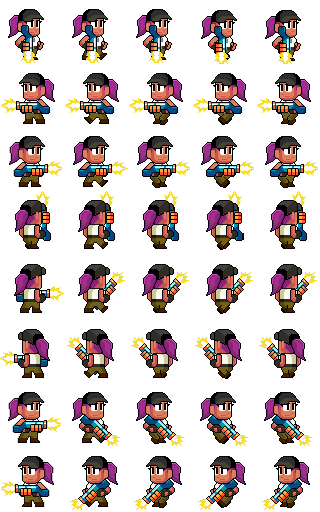
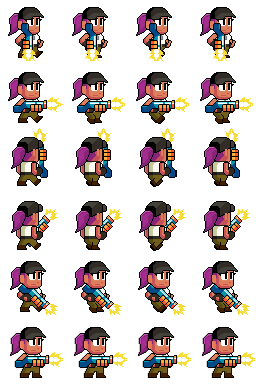
Fixing mikaela's sprite and adding Rider

diff --git a/server/public/dist/main.js b/server/public/dist/main.js
@@ -130,7 +130,7 @@ eval("__webpack_require__.r(__webpack_exports__);\n/* harmony export (binding) *
 /***/ (function(module, __webpack_exports__, __webpack_require__) {
 
 "use strict";
-eval("__webpack_require__.r(__webpack_exports__);\n/* harmony export (binding) */ __webpack_require__.d(__webpack_exports__, \"default\", function() { return Online; });\n/* harmony import */ var _Engine_js__WEBPACK_IMPORTED_MODULE_0__ = __webpack_require__(/*! ./Engine.js */ \"./server/client/js/classes/Engine.js\");\n/* harmony import */ var _OnlineChat_js__WEBPACK_IMPORTED_MODULE_1__ = __webpack_require__(/*! ./OnlineChat.js */ \"./server/client/js/classes/OnlineChat.js\");\nfunction _typeof(obj) { \"@babel/helpers - typeof\"; if (typeof Symbol === \"function\" && typeof Symbol.iterator === \"symbol\") { _typeof = function _typeof(obj) { return typeof obj; }; } else { _typeof = function _typeof(obj) { return obj && typeof Symbol === \"function\" && obj.constructor === Symbol && obj !== Symbol.prototype ? \"symbol\" : typeof obj; }; } return _typeof(obj); }\n\nfunction _classCallCheck(instance, Constructor) { if (!(instance instanceof Constructor)) { throw new TypeError(\"Cannot call a class as a function\"); } }\n\nfunction _defineProperties(target, props) { for (var i = 0; i < props.length; i++) { var descriptor = props[i]; descriptor.enumerable = descriptor.enumerable || false; descriptor.configurable = true; if (\"value\" in descriptor) descriptor.writable = true; Object.defineProperty(target, descriptor.key, descriptor); } }\n\nfunction _createClass(Constructor, protoProps, staticProps) { if (protoProps) _defineProperties(Constructor.prototype, protoProps); if (staticProps) _defineProperties(Constructor, staticProps); return Constructor; }\n\nfunction _inherits(subClass, superClass) { if (typeof superClass !== \"function\" && superClass !== null) { throw new TypeError(\"Super expression must either be null or a function\"); } subClass.prototype = Object.create(superClass && superClass.prototype, { constructor: { value: subClass, writable: true, configurable: true } }); if (superClass) _setPrototypeOf(subClass, superClass); }\n\nfunction _setPrototypeOf(o, p) { _setPrototypeOf = Object.setPrototypeOf || function _setPrototypeOf(o, p) { o.__proto__ = p; return o; }; return _setPrototypeOf(o, p); }\n\nfunction _createSuper(Derived) { return function () { var Super = _getPrototypeOf(Derived), result; if (_isNativeReflectConstruct()) { var NewTarget = _getPrototypeOf(this).constructor; result = Reflect.construct(Super, arguments, NewTarget); } else { result = Super.apply(this, arguments); } return _possibleConstructorReturn(this, result); }; }\n\nfunction _possibleConstructorReturn(self, call) { if (call && (_typeof(call) === \"object\" || typeof call === \"function\")) { return call; } return _assertThisInitialized(self); }\n\nfunction _assertThisInitialized(self) { if (self === void 0) { throw new ReferenceError(\"this hasn't been initialised - super() hasn't been called\"); } return self; }\n\nfunction _isNativeReflectConstruct() { if (typeof Reflect === \"undefined\" || !Reflect.construct) return false; if (Reflect.construct.sham) return false; if (typeof Proxy === \"function\") return true; try { Date.prototype.toString.call(Reflect.construct(Date, [], function () {})); return true; } catch (e) { return false; } }\n\nfunction _getPrototypeOf(o) { _getPrototypeOf = Object.setPrototypeOf ? Object.getPrototypeOf : function _getPrototypeOf(o) { return o.__proto__ || Object.getPrototypeOf(o); }; return _getPrototypeOf(o); }\n\n\n\n/**\r\n * ================================\r\n *      ONLINE GAME ENGINE\r\n * ================================\r\n */\n\nvar Online = /*#__PURE__*/function (_Engine) {\n  _inherits(Online, _Engine);\n\n  var _super = _createSuper(Online);\n\n  function Online(map, colissionMatrix, tileSet, canvas, socket, playerID, server, skin, name) {\n    var _this;\n\n    _classCallCheck(this, Online);\n\n    _this = _super.call(this, map, colissionMatrix, tileSet, canvas, skin);\n\n    _this.render = function (timeSinceLastFrame) {\n      _this.context.clearRect(0, 0, _this.canvas.width, _this.canvas.height);\n\n      if (_this.playerStats) _this.calculateLocalMap();\n\n      _this.animateCharacter();\n\n      _this.calculateOffset();\n\n      _this.drawMap();\n\n      _this.drawObjects();\n\n      _this.drawOtherPlayers();\n\n      _this.context.font = '16px cursive';\n      _this.context.fillStyle = 'black';\n\n      _this.drawBullets(); //this.drawCharacter()\n\n\n      _this.context.fillStyle = \"black\";\n\n      _this.context.fillText(\"FPS: \".concat(_this.FPS), _this.screenTiles.x * _this.tile.height - 100, 50);\n\n      _this.context.fillText(\"Net: \".concat(_this.latency, \"ms\"), _this.screenTiles.x * _this.tile.height - 100, 70);\n\n      if (_this.reloading || _this.currentAmmo === 0) {\n        _this.context.textAlign = 'center';\n\n        _this.context.fillText('Reloading...', _this.screenTiles.x * _this.tile.width / 2, _this.canvas.height - 10);\n      }\n\n      requestAnimationFrame(function () {\n        /* FPS Counter */\n        var now = new Date();\n        timeSinceLastFrame = _this.lastFrameTime ? now - _this.lastFrameTime : 0;\n\n        _this.render(timeSinceLastFrame);\n\n        _this.lastFrameTime = now;\n        _this.FPS = Math.floor(1 / (timeSinceLastFrame / 1000));\n      });\n    };\n\n    _this.emitPlayerPosition = function () {\n      _this.socketIO.emit('movement', {\n        id: _this.playerID,\n        controls: _this.controls,\n        cartisianMovement: _this.cartesianValueOfMovement,\n        character: {\n          currentSprite: _this.character.currentSprite\n        }\n      });\n    };\n\n    _this.name = name;\n    _this.serverDelay = null;\n    /* Online attributes recevied from the sever */\n\n    _this.playerID = playerID;\n    _this.socketIO = socket;\n    /* Create a chat room */\n\n    _this.chat = new _OnlineChat_js__WEBPACK_IMPORTED_MODULE_1__[\"default\"](_this.socketIO);\n    /* Add to emit => the skin */\n\n    _this.socketIO.emit('New Player', {\n      name: _this.name,\n      skin: _this.skin,\n      character: _this.character.currentSprite\n    });\n\n    _this.state = null;\n    _this.server = server;\n    /* CALCULATE network speed */\n\n    _this.latency = 0;\n    /* Skins array of images */\n\n    _this.onlineSkins = {};\n    /* SOCKET LISTENERS */\n\n    _this.socketIO.on('state', function (data) {\n      _this.state = data;\n      var currentPlayerPos = _this.state.players[_this.playerID];\n      _this.playerStats = currentPlayerPos;\n\n      if (_this.currentAmmo !== _this.playerStats.bulletsCharger) {\n        _this.currentAmmo = _this.playerStats.currentAmmo;\n        _this.bulletsHTMLElement.innerText = \"\".concat(_this.currentAmmo, \"/\").concat(_this.playerAmmunition);\n      }\n\n      _this.serverDelay = Date.now() - data.serverTime;\n    });\n    /* When new players enter the lobby, they must load other users skins and default info about the skin selected */\n\n\n    _this.socketIO.on('Load Skins and ammunition', function (data) {\n      data.srcArray.forEach(function (value) {\n        if (value != _this.skin) {\n          _this.loadServerSkin(value);\n        }\n      });\n      _this.playerAmmunition = data.characterInfo.bullets;\n      _this.currentAmmo = _this.playerAmmunition;\n      _this.shootingDelay = data.characterInfo.shootingDelay;\n      _this.bulletsHTMLElement.innerText = \"\".concat(_this.currentAmmo, \"/\").concat(_this.playerAmmunition);\n    });\n    /* when a new player enters, other people must load his skin */\n\n\n    _this.socketIO.on('Load New Skin', function (data) {\n      var element = _this.onlineSkins[data.src];\n      if (!element && data.src != _this.skin) _this.loadServerSkin(data.src);\n    });\n\n    _this.socketIO.on('Reload Weapon', function (data) {\n      _this.reloading = false;\n    });\n    /* When the score changes */\n\n\n    _this.socketIO.on('New leaderboard', function (data) {\n      var positions = ['trophy', 'medal', 'award'];\n      var score = document.getElementById('scores');\n      score.innerHTML = '';\n      data.map(function (elem, index) {\n        var text = document.createElement('p');\n        if (elem.id === _this.playerID) text.style.color = '#f0565e';\n        var scoreText = \"<i class=\\\"fas fa-\".concat(positions[index], \"\\\"></i>.\").concat(elem.name, \": \").concat(elem.score);\n        text.innerHTML = scoreText;\n        score.appendChild(text);\n      });\n    });\n\n    _this.socketIO.on('pong', function (ms) {\n      _this.latency = ms;\n    });\n\n    return _this;\n  }\n  /**\r\n   * ==========================\r\n   *      RENDER FUNCTION\r\n   * ==========================\r\n   * \r\n   * Called when the sprites are loaded by the engine\r\n   */\n\n\n  _createClass(Online, [{\n    key: \"animateCharacter\",\n\n    /* Animating the local character with the info from the server */\n    value: function animateCharacter() {\n      var emitPos = false;\n\n      if (this.controls.goUp && this.controls.goLeft) {\n        if (this.character.currentSprite.y != 3) {\n          this.character.onMovingStop();\n          this.character.onMovingForwardLeft();\n        }\n      }\n\n      if (this.controls.goUp && this.controls.goRight) {\n        if (this.character.currentSprite.y != 3) {\n          this.character.onMovingStop();\n          this.character.onMovingForwardRight();\n        }\n      }\n\n      if (this.controls.goDown && this.controls.goRight) {\n        if (this.character.currentSprite.y != 4) {\n          this.character.onMovingStop();\n          this.character.onMovingBackwardsRight();\n        }\n      }\n\n      if (this.controls.goDown && this.controls.goLeft) {\n        if (this.character.currentSprite.y != 4) {\n          this.character.onMovingStop();\n          this.character.onMovingBackwardsLeft();\n        }\n      }\n\n      if (this.controls.goUp) {\n        emitPos = true;\n        if (!this.character.moveInterval) this.character.onMovingForward();\n      }\n\n      if (this.controls.goDown) {\n        emitPos = true;\n        if (!this.character.moveInterval) this.character.onMovingBackwards();\n      }\n\n      if (this.controls.goRight) {\n        emitPos = true;\n        if (!this.character.moveInterval) this.character.onMovingRight();\n      }\n\n      if (this.controls.goLeft) {\n        emitPos = true;\n        if (!this.character.moveInterval) this.character.onMovingLeft();\n      }\n\n      if (this.ableToShoot && this.controls.shoot && !this.chat.active && this.currentAmmo && !this.reloading) this.triggerShooting();\n      if (emitPos) this.emitPlayerPosition();\n    }\n    /* Send the info back to the server */\n\n  }, {\n    key: \"calculateLocalMap\",\n\n    /* Calculates the position of the map in the browser => startX and startY */\n    value: function calculateLocalMap() {\n      var serverWidth = this.transformServerMagnitudesX(this.playerStats.posX);\n      var serverHeight = this.transformServerMagnitudesY(this.playerStats.posY);\n      /* X axis smoothness */\n\n      if (this.cameraSmoothness.offsetX < this.cameraSmoothness.limitX && this.cameraSmoothness.offsetX > -this.cameraSmoothness.limitX && this.playerStats.cartesianValueOfMovement.x) {\n        this.cameraSmoothness.velX = this.cameraSmoothness.velX > 1.8 ? 2 : this.cameraSmoothness.velX / this.cameraSmoothness.friction;\n        this.cameraSmoothness.offsetX += this.cameraSmoothness.velX * this.playerStats.cartesianValueOfMovement.x;\n      } else if (this.playerStats.cartesianValueOfMovement.x === 0 && this.cameraSmoothness.offsetX !== 0) {\n        this.cameraSmoothness.velX = this.cameraSmoothness.velX <= .4 ? .4 : this.cameraSmoothness.velX * this.cameraSmoothness.friction;\n        if (this.cameraSmoothness.offsetX < 0) this.cameraSmoothness.offsetX += this.cameraSmoothness.velX;else this.cameraSmoothness.offsetX -= this.cameraSmoothness.velX;\n      }\n      /* Y axis smootheness */\n\n\n      if (this.cameraSmoothness.offsetY < this.cameraSmoothness.limitX && this.cameraSmoothness.offsetY > -this.cameraSmoothness.limitX && this.playerStats.cartesianValueOfMovement.y) {\n        this.cameraSmoothness.velY = this.cameraSmoothness.velY > 1.7 ? 2 : this.cameraSmoothness.velY / this.cameraSmoothness.friction;\n        this.cameraSmoothness.offsetY += this.cameraSmoothness.velY * (this.playerStats.cartesianValueOfMovement.y * -1);\n      } else if (this.playerStats.cartesianValueOfMovement.y === 0 && this.cameraSmoothness.offsetY !== 0) {\n        this.cameraSmoothness.velY = this.cameraSmoothness.velY <= .4 ? .4 : this.cameraSmoothness.velY * this.cameraSmoothness.friction;\n        if (this.cameraSmoothness.offsetY < 0) this.cameraSmoothness.offsetY += this.cameraSmoothness.velY;else this.cameraSmoothness.offsetY -= this.cameraSmoothness.velY;\n      }\n      /* Offset smooth camera */\n\n\n      this.tileMap.startX = this.screenTiles.x * this.tile.width / 2 - this.tile.width / 2 - serverWidth + this.cameraSmoothness.offsetX;\n      this.tileMap.startY = this.screenTiles.y * this.tile.height / 2 - this.tile.height / 2 - serverHeight + this.cameraSmoothness.offsetY;\n    }\n    /* Loops the other players and calls the drawOnlineCharacter to draw each player with the info from the socket */\n\n  }, {\n    key: \"drawOtherPlayers\",\n    value: function drawOtherPlayers() {\n      if (this.state.players) {\n        var quitePlayers = false;\n\n        for (var playerID in this.state.players) {\n          var characterX = this.transformServerMagnitudesX(this.state.players[playerID].posX) + this.tileMap.startX;\n          var characterY = this.transformServerMagnitudesX(this.state.players[playerID].posY) + this.tileMap.startY;\n          /* If the character is outside the screen don't draw it */\n\n          if (characterX + this.tile.width >= 0 && characterX < this.screenTiles.x * this.tile.width && characterY + this.tile.height >= 0 && characterY < this.screenTiles.y * this.tile.height && this.state.players[playerID].character) {\n            var skin = void 0;\n\n            if (this.state.players[playerID].skin == this.skin) {\n              if (this.state.players[playerID].shooting && this.state.players[playerID].life > 0) skin = this.character.spriteImages.shooting;else skin = this.character.spriteImages.normal;\n            } else {\n              if (this.state.players[playerID].shooting && this.state.players[playerID].life > 0) skin = this.onlineSkins[this.state.players[playerID].skin].shooting;else skin = this.onlineSkins[this.state.players[playerID].skin].normal;\n            }\n\n            if (this.state.players[playerID].life === 0) {\n              var tempFlip = this.state.players[playerID].character.currentSprite.flip;\n              this.state.players[playerID].character.currentSprite = {\n                x: 0,\n                y: 6,\n                flip: tempFlip\n              };\n            }\n            /* Check if any player is still */\n\n\n            if (this.state.players[playerID].still) quitePlayers = true;\n\n            if (skin) {\n              this.drawLife(characterX, characterY - 6, this.state.players[playerID].life);\n              var character = {\n                y: this.state.players[playerID].character.currentSprite.y,\n                x: this.state.players[playerID].still && this.state.players[playerID].life > 0 ? this.staticAnimation.x : this.state.players[playerID].character.currentSprite.x,\n                flip: this.state.players[playerID].character.currentSprite.flip\n              };\n              this.drawOnlineCharacter({\n                posX: characterX,\n                posY: characterY\n              }, character, skin, this.state.players[playerID].playerName);\n            }\n          }\n        }\n\n        if (quitePlayers && !this.staticAnimation.interval) this.setAnimationWhenStatic();else if (!quitePlayers) this.endAnimationWhenStatic();\n      }\n    }\n    /* Draws the online players with the info from the server */\n\n  }, {\n    key: \"drawOnlineCharacter\",\n    value: function drawOnlineCharacter(player, onlineCharacter, skin, name) {\n      console.log(onlineCharacter);\n      this.context.textAlign = 'center';\n      this.context.fillStyle = 'black';\n      this.context.fillText(name, player.posX + this.tile.width / 2, player.posY - 10);\n      this.context.save();\n      this.context.scale(onlineCharacter.flip, 1);\n      var posX = onlineCharacter.flip === 1 ? player.posX : player.posX * onlineCharacter.flip - this.tile.width;\n      this.context.drawImage(skin, onlineCharacter.x * this.character.spriteSheet.width, onlineCharacter.y * this.character.spriteSheet.height, this.character.spriteSheet.width, this.character.spriteSheet.height, posX, player.posY, this.tile.width, this.tile.height);\n      this.context.restore();\n    }\n    /* Uses the rule of three mathematic formula to transform values from the server */\n\n  }, {\n    key: \"transformServerMagnitudesX\",\n    value: function transformServerMagnitudesX(serverValue) {\n      return this.tileMap.width * serverValue / this.server.width;\n    }\n  }, {\n    key: \"transformServerMagnitudesY\",\n    value: function transformServerMagnitudesY(serverValue) {\n      return this.tileMap.height * serverValue / this.server.height;\n    }\n    /* Load new skin from the server */\n\n  }, {\n    key: \"loadServerSkin\",\n    value: function loadServerSkin(src) {\n      var characterSkin = new Image();\n      characterSkin.src = \"../assets/characters/\".concat(src, \".png\");\n      var shootingSkin = new Image();\n      shootingSkin.src = \"../assets/characters/shooting/\".concat(src, \".png\");\n      this.onlineSkins[src] = {\n        normal: characterSkin,\n        shooting: shootingSkin\n      };\n    }\n    /** \r\n     * =========================\r\n     *      Bullet Mechanics\r\n     * =========================\r\n    */\n\n    /* Draw bullets contain on the server */\n\n  }, {\n    key: \"drawBullets\",\n    value: function drawBullets() {\n      var _this2 = this;\n\n      if (this.state.bullets.length > 0) {\n        this.state.bullets.map(function (element) {\n          _this2.context.beginPath();\n\n          _this2.context.arc(_this2.transformServerMagnitudesX(element.posX) + _this2.tileMap.startX, _this2.transformServerMagnitudesY(element.posY) + _this2.tileMap.startY, 5, 0, 2 * Math.PI);\n\n          _this2.context.fill();\n        });\n      }\n    }\n    /* Emit bullet to the server */\n\n  }, {\n    key: \"emitBullet\",\n    value: function emitBullet() {\n      this.socketIO.emit('shoot', {\n        shootTime: Date.now() - this.serverDelay\n      });\n    }\n  }, {\n    key: \"emitReload\",\n    value: function emitReload() {\n      this.socketIO.emit('reload weapon');\n    }\n  }]);\n\n  return Online;\n}(_Engine_js__WEBPACK_IMPORTED_MODULE_0__[\"default\"]);\n\n\n\n//# sourceURL=webpack:///./server/client/js/classes/Online.js?");
+eval("__webpack_require__.r(__webpack_exports__);\n/* harmony export (binding) */ __webpack_require__.d(__webpack_exports__, \"default\", function() { return Online; });\n/* harmony import */ var _Engine_js__WEBPACK_IMPORTED_MODULE_0__ = __webpack_require__(/*! ./Engine.js */ \"./server/client/js/classes/Engine.js\");\n/* harmony import */ var _OnlineChat_js__WEBPACK_IMPORTED_MODULE_1__ = __webpack_require__(/*! ./OnlineChat.js */ \"./server/client/js/classes/OnlineChat.js\");\nfunction _typeof(obj) { \"@babel/helpers - typeof\"; if (typeof Symbol === \"function\" && typeof Symbol.iterator === \"symbol\") { _typeof = function _typeof(obj) { return typeof obj; }; } else { _typeof = function _typeof(obj) { return obj && typeof Symbol === \"function\" && obj.constructor === Symbol && obj !== Symbol.prototype ? \"symbol\" : typeof obj; }; } return _typeof(obj); }\n\nfunction _classCallCheck(instance, Constructor) { if (!(instance instanceof Constructor)) { throw new TypeError(\"Cannot call a class as a function\"); } }\n\nfunction _defineProperties(target, props) { for (var i = 0; i < props.length; i++) { var descriptor = props[i]; descriptor.enumerable = descriptor.enumerable || false; descriptor.configurable = true; if (\"value\" in descriptor) descriptor.writable = true; Object.defineProperty(target, descriptor.key, descriptor); } }\n\nfunction _createClass(Constructor, protoProps, staticProps) { if (protoProps) _defineProperties(Constructor.prototype, protoProps); if (staticProps) _defineProperties(Constructor, staticProps); return Constructor; }\n\nfunction _inherits(subClass, superClass) { if (typeof superClass !== \"function\" && superClass !== null) { throw new TypeError(\"Super expression must either be null or a function\"); } subClass.prototype = Object.create(superClass && superClass.prototype, { constructor: { value: subClass, writable: true, configurable: true } }); if (superClass) _setPrototypeOf(subClass, superClass); }\n\nfunction _setPrototypeOf(o, p) { _setPrototypeOf = Object.setPrototypeOf || function _setPrototypeOf(o, p) { o.__proto__ = p; return o; }; return _setPrototypeOf(o, p); }\n\nfunction _createSuper(Derived) { return function () { var Super = _getPrototypeOf(Derived), result; if (_isNativeReflectConstruct()) { var NewTarget = _getPrototypeOf(this).constructor; result = Reflect.construct(Super, arguments, NewTarget); } else { result = Super.apply(this, arguments); } return _possibleConstructorReturn(this, result); }; }\n\nfunction _possibleConstructorReturn(self, call) { if (call && (_typeof(call) === \"object\" || typeof call === \"function\")) { return call; } return _assertThisInitialized(self); }\n\nfunction _assertThisInitialized(self) { if (self === void 0) { throw new ReferenceError(\"this hasn't been initialised - super() hasn't been called\"); } return self; }\n\nfunction _isNativeReflectConstruct() { if (typeof Reflect === \"undefined\" || !Reflect.construct) return false; if (Reflect.construct.sham) return false; if (typeof Proxy === \"function\") return true; try { Date.prototype.toString.call(Reflect.construct(Date, [], function () {})); return true; } catch (e) { return false; } }\n\nfunction _getPrototypeOf(o) { _getPrototypeOf = Object.setPrototypeOf ? Object.getPrototypeOf : function _getPrototypeOf(o) { return o.__proto__ || Object.getPrototypeOf(o); }; return _getPrototypeOf(o); }\n\n\n\n/**\r\n * ================================\r\n *      ONLINE GAME ENGINE\r\n * ================================\r\n */\n\nvar Online = /*#__PURE__*/function (_Engine) {\n  _inherits(Online, _Engine);\n\n  var _super = _createSuper(Online);\n\n  function Online(map, colissionMatrix, tileSet, canvas, socket, playerID, server, skin, name) {\n    var _this;\n\n    _classCallCheck(this, Online);\n\n    _this = _super.call(this, map, colissionMatrix, tileSet, canvas, skin);\n\n    _this.render = function (timeSinceLastFrame) {\n      _this.context.clearRect(0, 0, _this.canvas.width, _this.canvas.height);\n\n      if (_this.playerStats) _this.calculateLocalMap();\n\n      _this.animateCharacter();\n\n      _this.calculateOffset();\n\n      _this.drawMap();\n\n      _this.drawObjects();\n\n      _this.drawBullets();\n\n      _this.drawOtherPlayers();\n\n      _this.context.font = '16px cursive';\n      _this.context.fillStyle = 'black'; //this.drawCharacter()\n\n      _this.context.fillStyle = \"black\";\n\n      _this.context.fillText(\"FPS: \".concat(_this.FPS), _this.screenTiles.x * _this.tile.height - 100, 50);\n\n      _this.context.fillText(\"Net: \".concat(_this.latency, \"ms\"), _this.screenTiles.x * _this.tile.height - 100, 70);\n\n      if (_this.reloading || _this.currentAmmo === 0) {\n        _this.context.textAlign = 'center';\n\n        _this.context.fillText('Reloading...', _this.screenTiles.x * _this.tile.width / 2, _this.canvas.height - 10);\n      }\n\n      requestAnimationFrame(function () {\n        /* FPS Counter */\n        var now = new Date();\n        timeSinceLastFrame = _this.lastFrameTime ? now - _this.lastFrameTime : 0;\n\n        _this.render(timeSinceLastFrame);\n\n        _this.lastFrameTime = now;\n        _this.FPS = Math.floor(1 / (timeSinceLastFrame / 1000));\n      });\n    };\n\n    _this.emitPlayerPosition = function () {\n      _this.socketIO.emit('movement', {\n        id: _this.playerID,\n        controls: _this.controls,\n        cartisianMovement: _this.cartesianValueOfMovement,\n        character: {\n          currentSprite: _this.character.currentSprite\n        }\n      });\n    };\n\n    _this.name = name;\n    _this.serverDelay = null;\n    /* Online attributes recevied from the sever */\n\n    _this.playerID = playerID;\n    _this.socketIO = socket;\n    /* Create a chat room */\n\n    _this.chat = new _OnlineChat_js__WEBPACK_IMPORTED_MODULE_1__[\"default\"](_this.socketIO);\n    /* Add to emit => the skin */\n\n    _this.socketIO.emit('New Player', {\n      name: _this.name,\n      skin: _this.skin,\n      character: _this.character.currentSprite\n    });\n\n    _this.state = null;\n    _this.server = server;\n    /* CALCULATE network speed */\n\n    _this.latency = 0;\n    /* Skins array of images */\n\n    _this.onlineSkins = {};\n    /* SOCKET LISTENERS */\n\n    _this.socketIO.on('state', function (data) {\n      _this.state = data;\n      var currentPlayerPos = _this.state.players[_this.playerID];\n      _this.playerStats = currentPlayerPos;\n\n      if (_this.currentAmmo !== _this.playerStats.bulletsCharger) {\n        _this.currentAmmo = _this.playerStats.currentAmmo;\n        _this.bulletsHTMLElement.innerText = \"\".concat(_this.currentAmmo, \"/\").concat(_this.playerAmmunition);\n      }\n\n      _this.serverDelay = Date.now() - data.serverTime;\n    });\n    /* When new players enter the lobby, they must load other users skins and default info about the skin selected */\n\n\n    _this.socketIO.on('Load Skins and ammunition', function (data) {\n      data.srcArray.forEach(function (value) {\n        if (value != _this.skin) {\n          _this.loadServerSkin(value);\n        }\n      });\n      _this.playerAmmunition = data.characterInfo.bullets;\n      _this.currentAmmo = _this.playerAmmunition;\n      _this.shootingDelay = data.characterInfo.shootingDelay;\n      _this.bulletsHTMLElement.innerText = \"\".concat(_this.currentAmmo, \"/\").concat(_this.playerAmmunition);\n    });\n    /* when a new player enters, other people must load his skin */\n\n\n    _this.socketIO.on('Load New Skin', function (data) {\n      var element = _this.onlineSkins[data.src];\n      if (!element && data.src != _this.skin) _this.loadServerSkin(data.src);\n    });\n\n    _this.socketIO.on('Reload Weapon', function (data) {\n      _this.reloading = false;\n    });\n    /* When the score changes */\n\n\n    _this.socketIO.on('New leaderboard', function (data) {\n      var positions = ['trophy', 'medal', 'award'];\n      var score = document.getElementById('scores');\n      score.innerHTML = '';\n      data.map(function (elem, index) {\n        var text = document.createElement('p');\n        if (elem.id === _this.playerID) text.style.color = '#f0565e';\n        var scoreText = \"<i class=\\\"fas fa-\".concat(positions[index], \"\\\"></i>.\").concat(elem.name, \": \").concat(elem.score);\n        text.innerHTML = scoreText;\n        score.appendChild(text);\n      });\n    });\n\n    _this.socketIO.on('pong', function (ms) {\n      _this.latency = ms;\n    });\n\n    return _this;\n  }\n  /**\r\n   * ==========================\r\n   *      RENDER FUNCTION\r\n   * ==========================\r\n   * \r\n   * Called when the sprites are loaded by the engine\r\n   */\n\n\n  _createClass(Online, [{\n    key: \"animateCharacter\",\n\n    /* Animating the local character with the info from the server */\n    value: function animateCharacter() {\n      var emitPos = false;\n\n      if (this.controls.goUp && this.controls.goLeft) {\n        if (this.character.currentSprite.y != 3) {\n          this.character.onMovingStop();\n          this.character.onMovingForwardLeft();\n        }\n      }\n\n      if (this.controls.goUp && this.controls.goRight) {\n        if (this.character.currentSprite.y != 3) {\n          this.character.onMovingStop();\n          this.character.onMovingForwardRight();\n        }\n      }\n\n      if (this.controls.goDown && this.controls.goRight) {\n        if (this.character.currentSprite.y != 4) {\n          this.character.onMovingStop();\n          this.character.onMovingBackwardsRight();\n        }\n      }\n\n      if (this.controls.goDown && this.controls.goLeft) {\n        if (this.character.currentSprite.y != 4) {\n          this.character.onMovingStop();\n          this.character.onMovingBackwardsLeft();\n        }\n      }\n\n      if (this.controls.goUp) {\n        emitPos = true;\n        if (!this.character.moveInterval) this.character.onMovingForward();\n      }\n\n      if (this.controls.goDown) {\n        emitPos = true;\n        if (!this.character.moveInterval) this.character.onMovingBackwards();\n      }\n\n      if (this.controls.goRight) {\n        emitPos = true;\n        if (!this.character.moveInterval) this.character.onMovingRight();\n      }\n\n      if (this.controls.goLeft) {\n        emitPos = true;\n        if (!this.character.moveInterval) this.character.onMovingLeft();\n      }\n\n      if (this.ableToShoot && this.controls.shoot && !this.chat.active && this.currentAmmo && !this.reloading) this.triggerShooting();\n      if (emitPos) this.emitPlayerPosition();\n    }\n    /* Send the info back to the server */\n\n  }, {\n    key: \"calculateLocalMap\",\n\n    /* Calculates the position of the map in the browser => startX and startY */\n    value: function calculateLocalMap() {\n      var serverWidth = this.transformServerMagnitudesX(this.playerStats.posX);\n      var serverHeight = this.transformServerMagnitudesY(this.playerStats.posY);\n      /* X axis smoothness */\n\n      if (this.cameraSmoothness.offsetX < this.cameraSmoothness.limitX && this.cameraSmoothness.offsetX > -this.cameraSmoothness.limitX && this.playerStats.cartesianValueOfMovement.x) {\n        this.cameraSmoothness.velX = this.cameraSmoothness.velX > 1.8 ? 2 : this.cameraSmoothness.velX / this.cameraSmoothness.friction;\n        this.cameraSmoothness.offsetX += this.cameraSmoothness.velX * this.playerStats.cartesianValueOfMovement.x;\n      } else if (this.playerStats.cartesianValueOfMovement.x === 0 && this.cameraSmoothness.offsetX !== 0) {\n        this.cameraSmoothness.velX = this.cameraSmoothness.velX <= .4 ? .4 : this.cameraSmoothness.velX * this.cameraSmoothness.friction;\n        if (this.cameraSmoothness.offsetX < 0) this.cameraSmoothness.offsetX += this.cameraSmoothness.velX;else this.cameraSmoothness.offsetX -= this.cameraSmoothness.velX;\n      }\n      /* Y axis smootheness */\n\n\n      if (this.cameraSmoothness.offsetY < this.cameraSmoothness.limitX && this.cameraSmoothness.offsetY > -this.cameraSmoothness.limitX && this.playerStats.cartesianValueOfMovement.y) {\n        this.cameraSmoothness.velY = this.cameraSmoothness.velY > 1.7 ? 2 : this.cameraSmoothness.velY / this.cameraSmoothness.friction;\n        this.cameraSmoothness.offsetY += this.cameraSmoothness.velY * (this.playerStats.cartesianValueOfMovement.y * -1);\n      } else if (this.playerStats.cartesianValueOfMovement.y === 0 && this.cameraSmoothness.offsetY !== 0) {\n        this.cameraSmoothness.velY = this.cameraSmoothness.velY <= .4 ? .4 : this.cameraSmoothness.velY * this.cameraSmoothness.friction;\n        if (this.cameraSmoothness.offsetY < 0) this.cameraSmoothness.offsetY += this.cameraSmoothness.velY;else this.cameraSmoothness.offsetY -= this.cameraSmoothness.velY;\n      }\n      /* Offset smooth camera */\n\n\n      this.tileMap.startX = this.screenTiles.x * this.tile.width / 2 - this.tile.width / 2 - serverWidth + this.cameraSmoothness.offsetX;\n      this.tileMap.startY = this.screenTiles.y * this.tile.height / 2 - this.tile.height / 2 - serverHeight + this.cameraSmoothness.offsetY;\n    }\n    /* Loops the other players and calls the drawOnlineCharacter to draw each player with the info from the socket */\n\n  }, {\n    key: \"drawOtherPlayers\",\n    value: function drawOtherPlayers() {\n      if (this.state.players) {\n        var quitePlayers = false;\n\n        for (var playerID in this.state.players) {\n          var characterX = this.transformServerMagnitudesX(this.state.players[playerID].posX) + this.tileMap.startX;\n          var characterY = this.transformServerMagnitudesX(this.state.players[playerID].posY) + this.tileMap.startY;\n          /* If the character is outside the screen don't draw it */\n\n          if (characterX + this.tile.width >= 0 && characterX < this.screenTiles.x * this.tile.width && characterY + this.tile.height >= 0 && characterY < this.screenTiles.y * this.tile.height && this.state.players[playerID].character) {\n            var skin = void 0;\n\n            if (this.state.players[playerID].skin == this.skin) {\n              if (this.state.players[playerID].shooting && this.state.players[playerID].life > 0) skin = this.character.spriteImages.shooting;else skin = this.character.spriteImages.normal;\n            } else {\n              if (this.state.players[playerID].shooting && this.state.players[playerID].life > 0) skin = this.onlineSkins[this.state.players[playerID].skin].shooting;else skin = this.onlineSkins[this.state.players[playerID].skin].normal;\n            }\n\n            if (this.state.players[playerID].life === 0) {\n              var tempFlip = this.state.players[playerID].character.currentSprite.flip;\n              this.state.players[playerID].character.currentSprite = {\n                x: 0,\n                y: 6,\n                flip: tempFlip\n              };\n            }\n            /* Check if any player is still */\n\n\n            if (this.state.players[playerID].still) quitePlayers = true;\n\n            if (skin) {\n              this.drawLife(characterX, characterY - 6, this.state.players[playerID].life);\n              var character = {\n                y: this.state.players[playerID].character.currentSprite.y,\n                x: this.state.players[playerID].still && this.state.players[playerID].life > 0 ? this.staticAnimation.x : this.state.players[playerID].character.currentSprite.x,\n                flip: this.state.players[playerID].character.currentSprite.flip\n              };\n              this.drawOnlineCharacter({\n                posX: characterX,\n                posY: characterY\n              }, character, skin, this.state.players[playerID].playerName);\n            }\n          }\n        }\n\n        if (quitePlayers && !this.staticAnimation.interval) this.setAnimationWhenStatic();else if (!quitePlayers) this.endAnimationWhenStatic();\n      }\n    }\n    /* Draws the online players with the info from the server */\n\n  }, {\n    key: \"drawOnlineCharacter\",\n    value: function drawOnlineCharacter(player, onlineCharacter, skin, name) {\n      console.log(onlineCharacter);\n      this.context.textAlign = 'center';\n      this.context.fillStyle = 'black';\n      this.context.fillText(name, player.posX + this.tile.width / 2, player.posY - 10);\n      this.context.save();\n      this.context.scale(onlineCharacter.flip, 1);\n      var posX = onlineCharacter.flip === 1 ? player.posX : player.posX * onlineCharacter.flip - this.tile.width;\n      this.context.drawImage(skin, onlineCharacter.x * this.character.spriteSheet.width, onlineCharacter.y * this.character.spriteSheet.height, this.character.spriteSheet.width, this.character.spriteSheet.height, posX, player.posY, this.tile.width, this.tile.height);\n      this.context.restore();\n    }\n    /* Uses the rule of three mathematic formula to transform values from the server */\n\n  }, {\n    key: \"transformServerMagnitudesX\",\n    value: function transformServerMagnitudesX(serverValue) {\n      return this.tileMap.width * serverValue / this.server.width;\n    }\n  }, {\n    key: \"transformServerMagnitudesY\",\n    value: function transformServerMagnitudesY(serverValue) {\n      return this.tileMap.height * serverValue / this.server.height;\n    }\n    /* Load new skin from the server */\n\n  }, {\n    key: \"loadServerSkin\",\n    value: function loadServerSkin(src) {\n      var characterSkin = new Image();\n      characterSkin.src = \"../assets/characters/\".concat(src, \".png\");\n      var shootingSkin = new Image();\n      shootingSkin.src = \"../assets/characters/shooting/\".concat(src, \".png\");\n      this.onlineSkins[src] = {\n        normal: characterSkin,\n        shooting: shootingSkin\n      };\n    }\n    /** \r\n     * =========================\r\n     *      Bullet Mechanics\r\n     * =========================\r\n    */\n\n    /* Draw bullets contain on the server */\n\n  }, {\n    key: \"drawBullets\",\n    value: function drawBullets() {\n      var _this2 = this;\n\n      if (this.state.bullets.length > 0) {\n        this.state.bullets.map(function (element) {\n          _this2.context.beginPath();\n\n          _this2.context.arc(_this2.transformServerMagnitudesX(element.posX) + _this2.tileMap.startX, _this2.transformServerMagnitudesY(element.posY) + _this2.tileMap.startY, 5, 0, 2 * Math.PI);\n\n          _this2.context.fill();\n        });\n      }\n    }\n    /* Emit bullet to the server */\n\n  }, {\n    key: \"emitBullet\",\n    value: function emitBullet() {\n      this.socketIO.emit('shoot', {\n        shootTime: Date.now() - this.serverDelay\n      });\n    }\n  }, {\n    key: \"emitReload\",\n    value: function emitReload() {\n      this.socketIO.emit('reload weapon');\n    }\n  }]);\n\n  return Online;\n}(_Engine_js__WEBPACK_IMPORTED_MODULE_0__[\"default\"]);\n\n\n\n//# sourceURL=webpack:///./server/client/js/classes/Online.js?");
 
 /***/ }),
 
@@ -154,7 +154,7 @@ eval("__webpack_require__.r(__webpack_exports__);\n/* harmony export (binding) *
 /***/ (function(module, __webpack_exports__, __webpack_require__) {
 
 "use strict";
-eval("__webpack_require__.r(__webpack_exports__);\n/* harmony import */ var _js_classes_Online_js__WEBPACK_IMPORTED_MODULE_0__ = __webpack_require__(/*! ../js/classes/Online.js */ \"./server/client/js/classes/Online.js\");\n/* harmony import */ var _glidejs_glide__WEBPACK_IMPORTED_MODULE_1__ = __webpack_require__(/*! @glidejs/glide */ \"./node_modules/@glidejs/glide/dist/glide.esm.js\");\n\n\n/**\r\n *  ============================\r\n *      Multiplayer TILE Game\r\n *  ============================\r\n */\n\nvar socket = io();\nvar game;\n/* Skins on the server that are ready to use */\n\nvar characterSkins = ['blade', 'mikaela'];\n/* Glide track -> where the slides have to be added in */\n\nvar track = document.getElementsByClassName('glide__slides')[0];\nvar loadedImg = 0;\nvar glide;\n/* Adding elements to the glide carousel */\n\ncharacterSkins.map(function (skin) {\n  var divHTML = document.createElement('div');\n  divHTML.classList = \"glide__slide single-character-skin\";\n  var name = document.createElement('h1');\n  name.innerHTML = skin;\n  name.className = 'character-name';\n  var imgHTML = document.createElement('img');\n  imgHTML.src = \"../assets/selectCharacters/\".concat(skin, \".png\");\n\n  imgHTML.onload = function () {\n    /* When the last image is loaded, then the glide object can be created => Important */\n    if (++loadedImg >= characterSkins.length) {\n      glide = new _glidejs_glide__WEBPACK_IMPORTED_MODULE_1__[\"default\"]('.glide', {\n        startAt: 0,\n        perView: 1\n      }).mount();\n    }\n  };\n  /* Append the elements */\n\n\n  divHTML.append(name);\n  divHTML.append(imgHTML);\n  track.append(divHTML);\n});\n/* Creating the Glide object to show the available skins */\n\nvar play = document.getElementById('play');\n\nplay.onclick = function (event) {\n  var body = document.getElementsByTagName('body')[0];\n  body.classList.remove('background-connect-frame');\n  var name = document.getElementById('playerName').value || 'unnamed';\n  document.getElementById('site-game').style.display = 'block';\n  body.removeChild(document.getElementById('login-frame'));\n  var engine = new _js_classes_Online_js__WEBPACK_IMPORTED_MODULE_0__[\"default\"](game.lobby.map, game.lobby.collisionMatrix, game.lobby.tileSet, document.getElementById('game'), socket, game.playerID, game.lobby.server, characterSkins[glide.index], name);\n};\n\nsocket.on('loadMap', function (data) {\n  game = data;\n});\n\n//# sourceURL=webpack:///./server/client/js/online.js?");
+eval("__webpack_require__.r(__webpack_exports__);\n/* harmony import */ var _js_classes_Online_js__WEBPACK_IMPORTED_MODULE_0__ = __webpack_require__(/*! ../js/classes/Online.js */ \"./server/client/js/classes/Online.js\");\n/* harmony import */ var _glidejs_glide__WEBPACK_IMPORTED_MODULE_1__ = __webpack_require__(/*! @glidejs/glide */ \"./node_modules/@glidejs/glide/dist/glide.esm.js\");\n\n\n/**\r\n *  ============================\r\n *      Multiplayer TILE Game\r\n *  ============================\r\n */\n\nvar socket = io();\nvar game;\n/* Skins on the server that are ready to use */\n\nvar characterSkins = ['blade', 'mikaela', 'rider'];\n/* Glide track -> where the slides have to be added in */\n\nvar track = document.getElementsByClassName('glide__slides')[0];\nvar loadedImg = 0;\nvar glide;\n/* Adding elements to the glide carousel */\n\ncharacterSkins.map(function (skin) {\n  var divHTML = document.createElement('div');\n  divHTML.classList = \"glide__slide single-character-skin\";\n  var name = document.createElement('h1');\n  name.innerHTML = skin;\n  name.className = 'character-name';\n  var imgHTML = document.createElement('img');\n  imgHTML.src = \"../assets/selectCharacters/\".concat(skin, \".png\");\n\n  imgHTML.onload = function () {\n    /* When the last image is loaded, then the glide object can be created => Important */\n    if (++loadedImg >= characterSkins.length) {\n      glide = new _glidejs_glide__WEBPACK_IMPORTED_MODULE_1__[\"default\"]('.glide', {\n        startAt: 0,\n        perView: 1\n      }).mount();\n    }\n  };\n  /* Append the elements */\n\n\n  divHTML.append(name);\n  divHTML.append(imgHTML);\n  track.append(divHTML);\n});\n/* Creating the Glide object to show the available skins */\n\nvar play = document.getElementById('play');\n\nplay.onclick = function (event) {\n  var body = document.getElementsByTagName('body')[0];\n  body.classList.remove('background-connect-frame');\n  var name = document.getElementById('playerName').value || 'unnamed';\n  document.getElementById('site-game').style.display = 'block';\n  body.removeChild(document.getElementById('login-frame'));\n  var engine = new _js_classes_Online_js__WEBPACK_IMPORTED_MODULE_0__[\"default\"](game.lobby.map, game.lobby.collisionMatrix, game.lobby.tileSet, document.getElementById('game'), socket, game.playerID, game.lobby.server, characterSkins[glide.index], name);\n};\n\nsocket.on('loadMap', function (data) {\n  game = data;\n});\n\n//# sourceURL=webpack:///./server/client/js/online.js?");
 
 /***/ })
 

diff --git a/server/sockets/classes/characters/Rider.js b/server/sockets/classes/characters/Rider.js
@@ -1,32 +1,31 @@
-/* Import super class */
 const Character = require('./Character.js')
 
-class Mikaela extends Character{
+class Rider extends Character{
     constructor(posX, posY, sprite, playerName){
         super(posX, posY, sprite, playerName)
 
         /* Specific data about this character */
-        this.skin = 'mikaela'
-        this.shootingDelay = 400
-        this.impactDamage = 65
+        this.skin = 'rider'
+        this.shootingDelay = 125
+        this.impactDamage = 33.4
 
         /* Full charger bullets */
-        this.ammunition = 2
+        this.ammunition = 20
 
         /* Current state of the charger */
-        this.bulletsCharger = 2
+        this.bulletsCharger = this.ammunition
 
-        this.reloadTime = 1000
+        this.reloadTime = 1200
     }
 
     /* offsetYHorizontal when player is in horizontal movement => y:1 and y:2 */
     offsetYHorizontal(halfTileWidth){
-        return halfTileWidth + (halfTileWidth/4)
+        return halfTileWidth + (halfTileWidth/3)
     }
 
     /* diagonalUpOffset when player is going diagonal up */
     diagonalUpOffsetX(halfTileWidth, dirX){
-        return (halfTileWidth/2 * dirX)
+        return (3 * halfTileWidth/4 * dirX)
     }
 
     diagonalUpOffsetY(halfTileWidth){
@@ -38,8 +37,8 @@ class Mikaela extends Character{
         return (halfTileWidth/6 * dirX)
     }
     diagonalDownOffsetY(halfTileWidth){
-        return halfTileWidth + (halfTileWidth/4)
+        return halfTileWidth + (halfTileWidth/3)
     }
 }
 
-module.exports = Mikaela
+module.exports = Rider

diff --git a/server/sockets/classes/Game.js b/server/sockets/classes/Game.js
@@ -4,6 +4,7 @@ const OnlineChatServer = require('./OnlineChatServer')
 /* Import character classes */
 const Mikaela = require('./characters/Mikaela.js');
 const Blade = require('./characters/Blade.js');
+const Rider = require('./characters/Rider.js')
 
 class Game {
     constructor(map, io){
@@ -69,6 +70,9 @@ class Game {
             case 'mikaela':
                 this.players[socketID] = new Mikaela(600, 200, data.character, data.name)
                 break
+            case 'rider':
+                this.players[socketID] = new Rider(600, 200, data.character, data.name)
+            
         }
     }
 

diff --git a/server/client/js/classes/Online.js b/server/client/js/classes/Online.js
@@ -125,11 +125,11 @@ export default class Online extends Engine{
         this.calculateOffset()
         this.drawMap()
         this.drawObjects()
+        this.drawBullets()
         this.drawOtherPlayers()
 
         this.context.font = '16px cursive'
         this.context.fillStyle = 'black'
-        this.drawBullets()
 
         //this.drawCharacter()
 

diff --git a/server/client/js/online.js b/server/client/js/online.js
@@ -9,7 +9,7 @@ const socket = io()
 let game
 
 /* Skins on the server that are ready to use */
-const characterSkins = ['blade', 'mikaela']
+const characterSkins = ['blade', 'mikaela', 'rider']
 
 /* Glide track -> where the slides have to be added in */
 const track = document.getElementsByClassName('glide__slides')[0]
